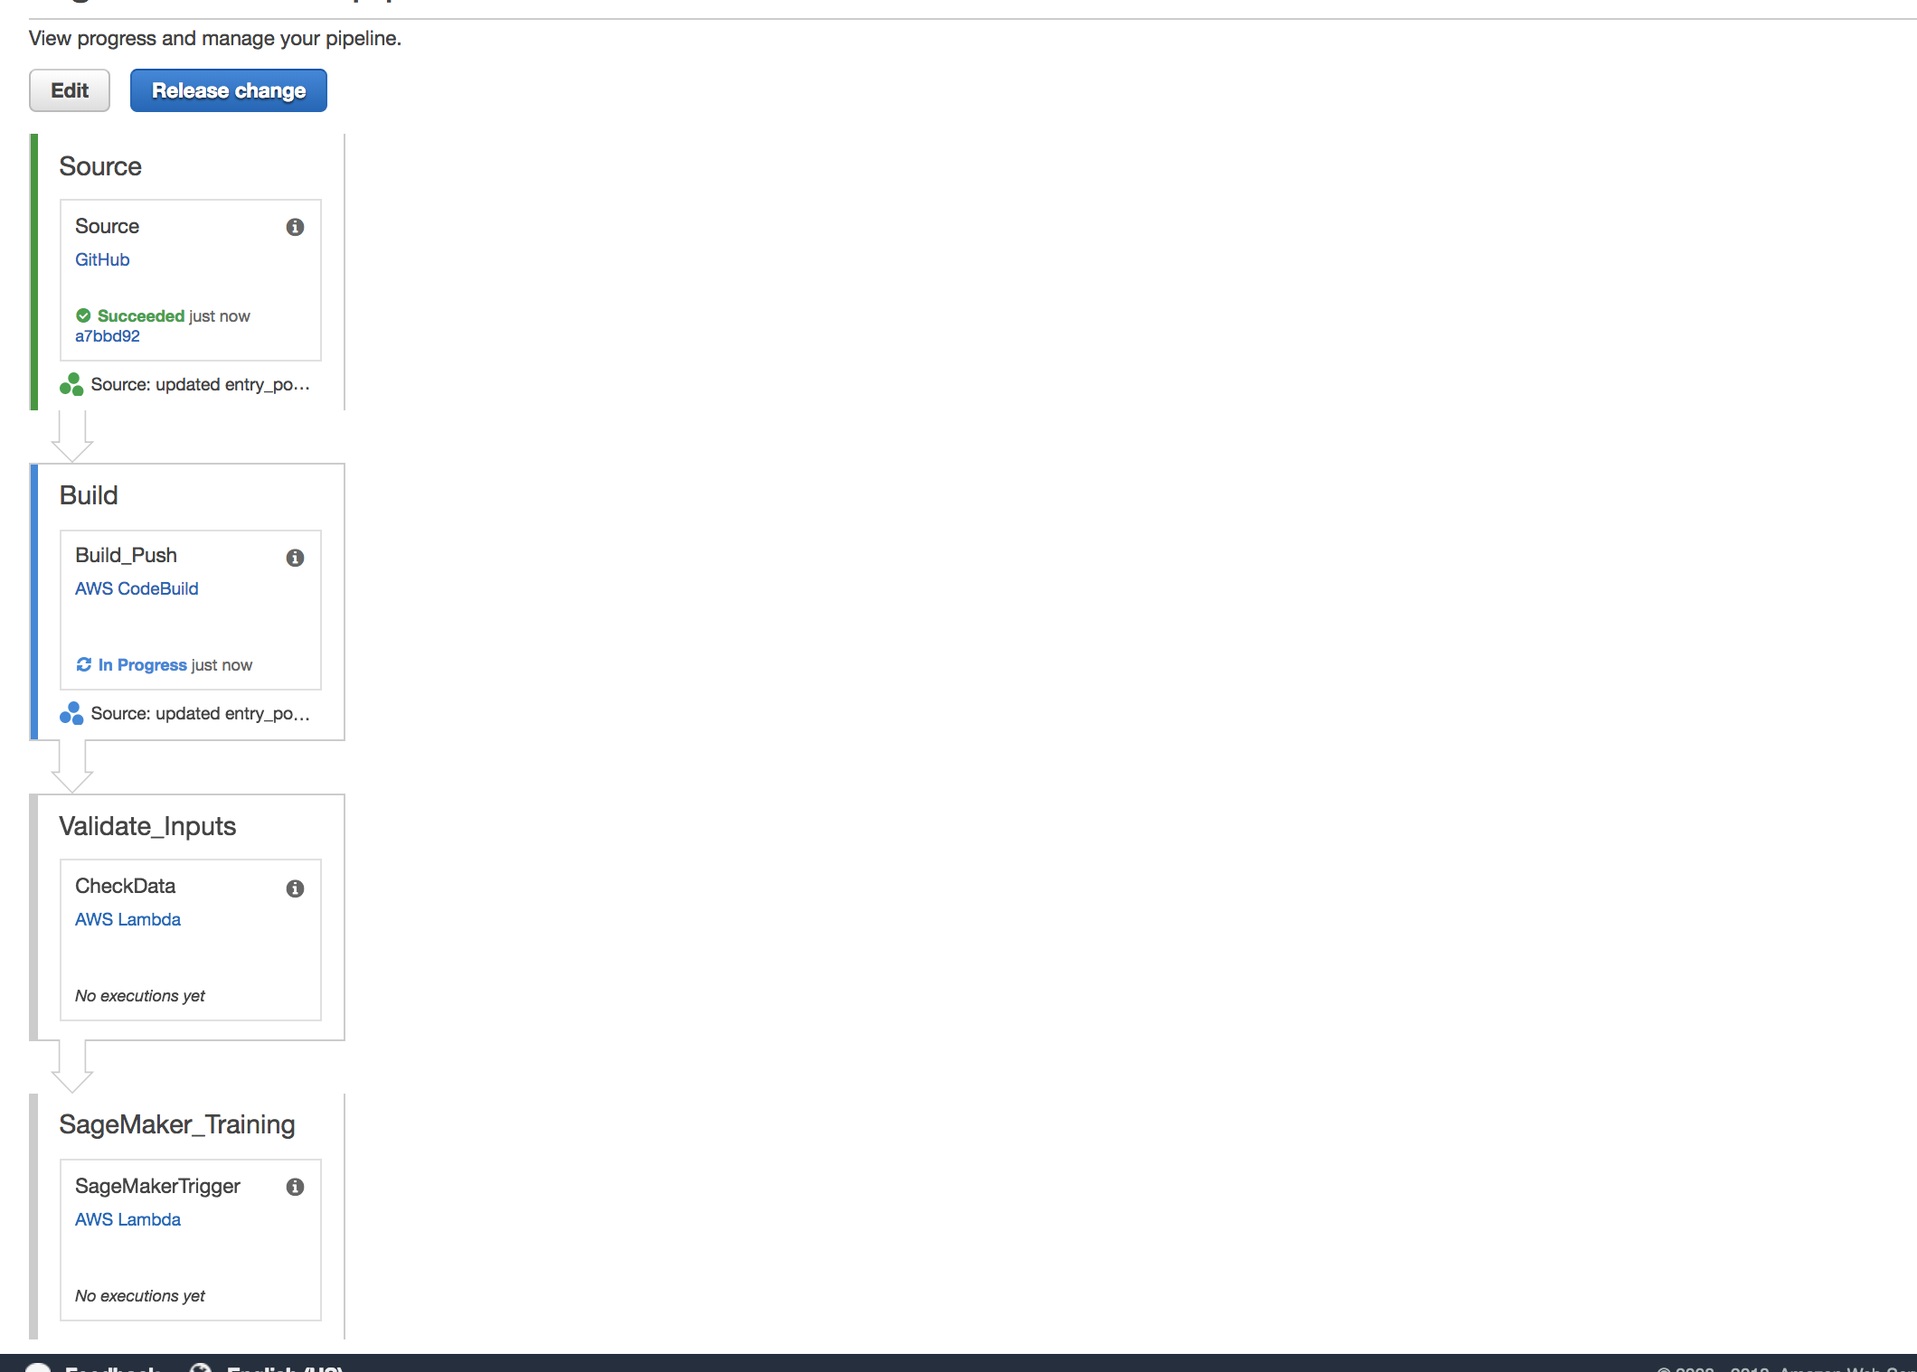
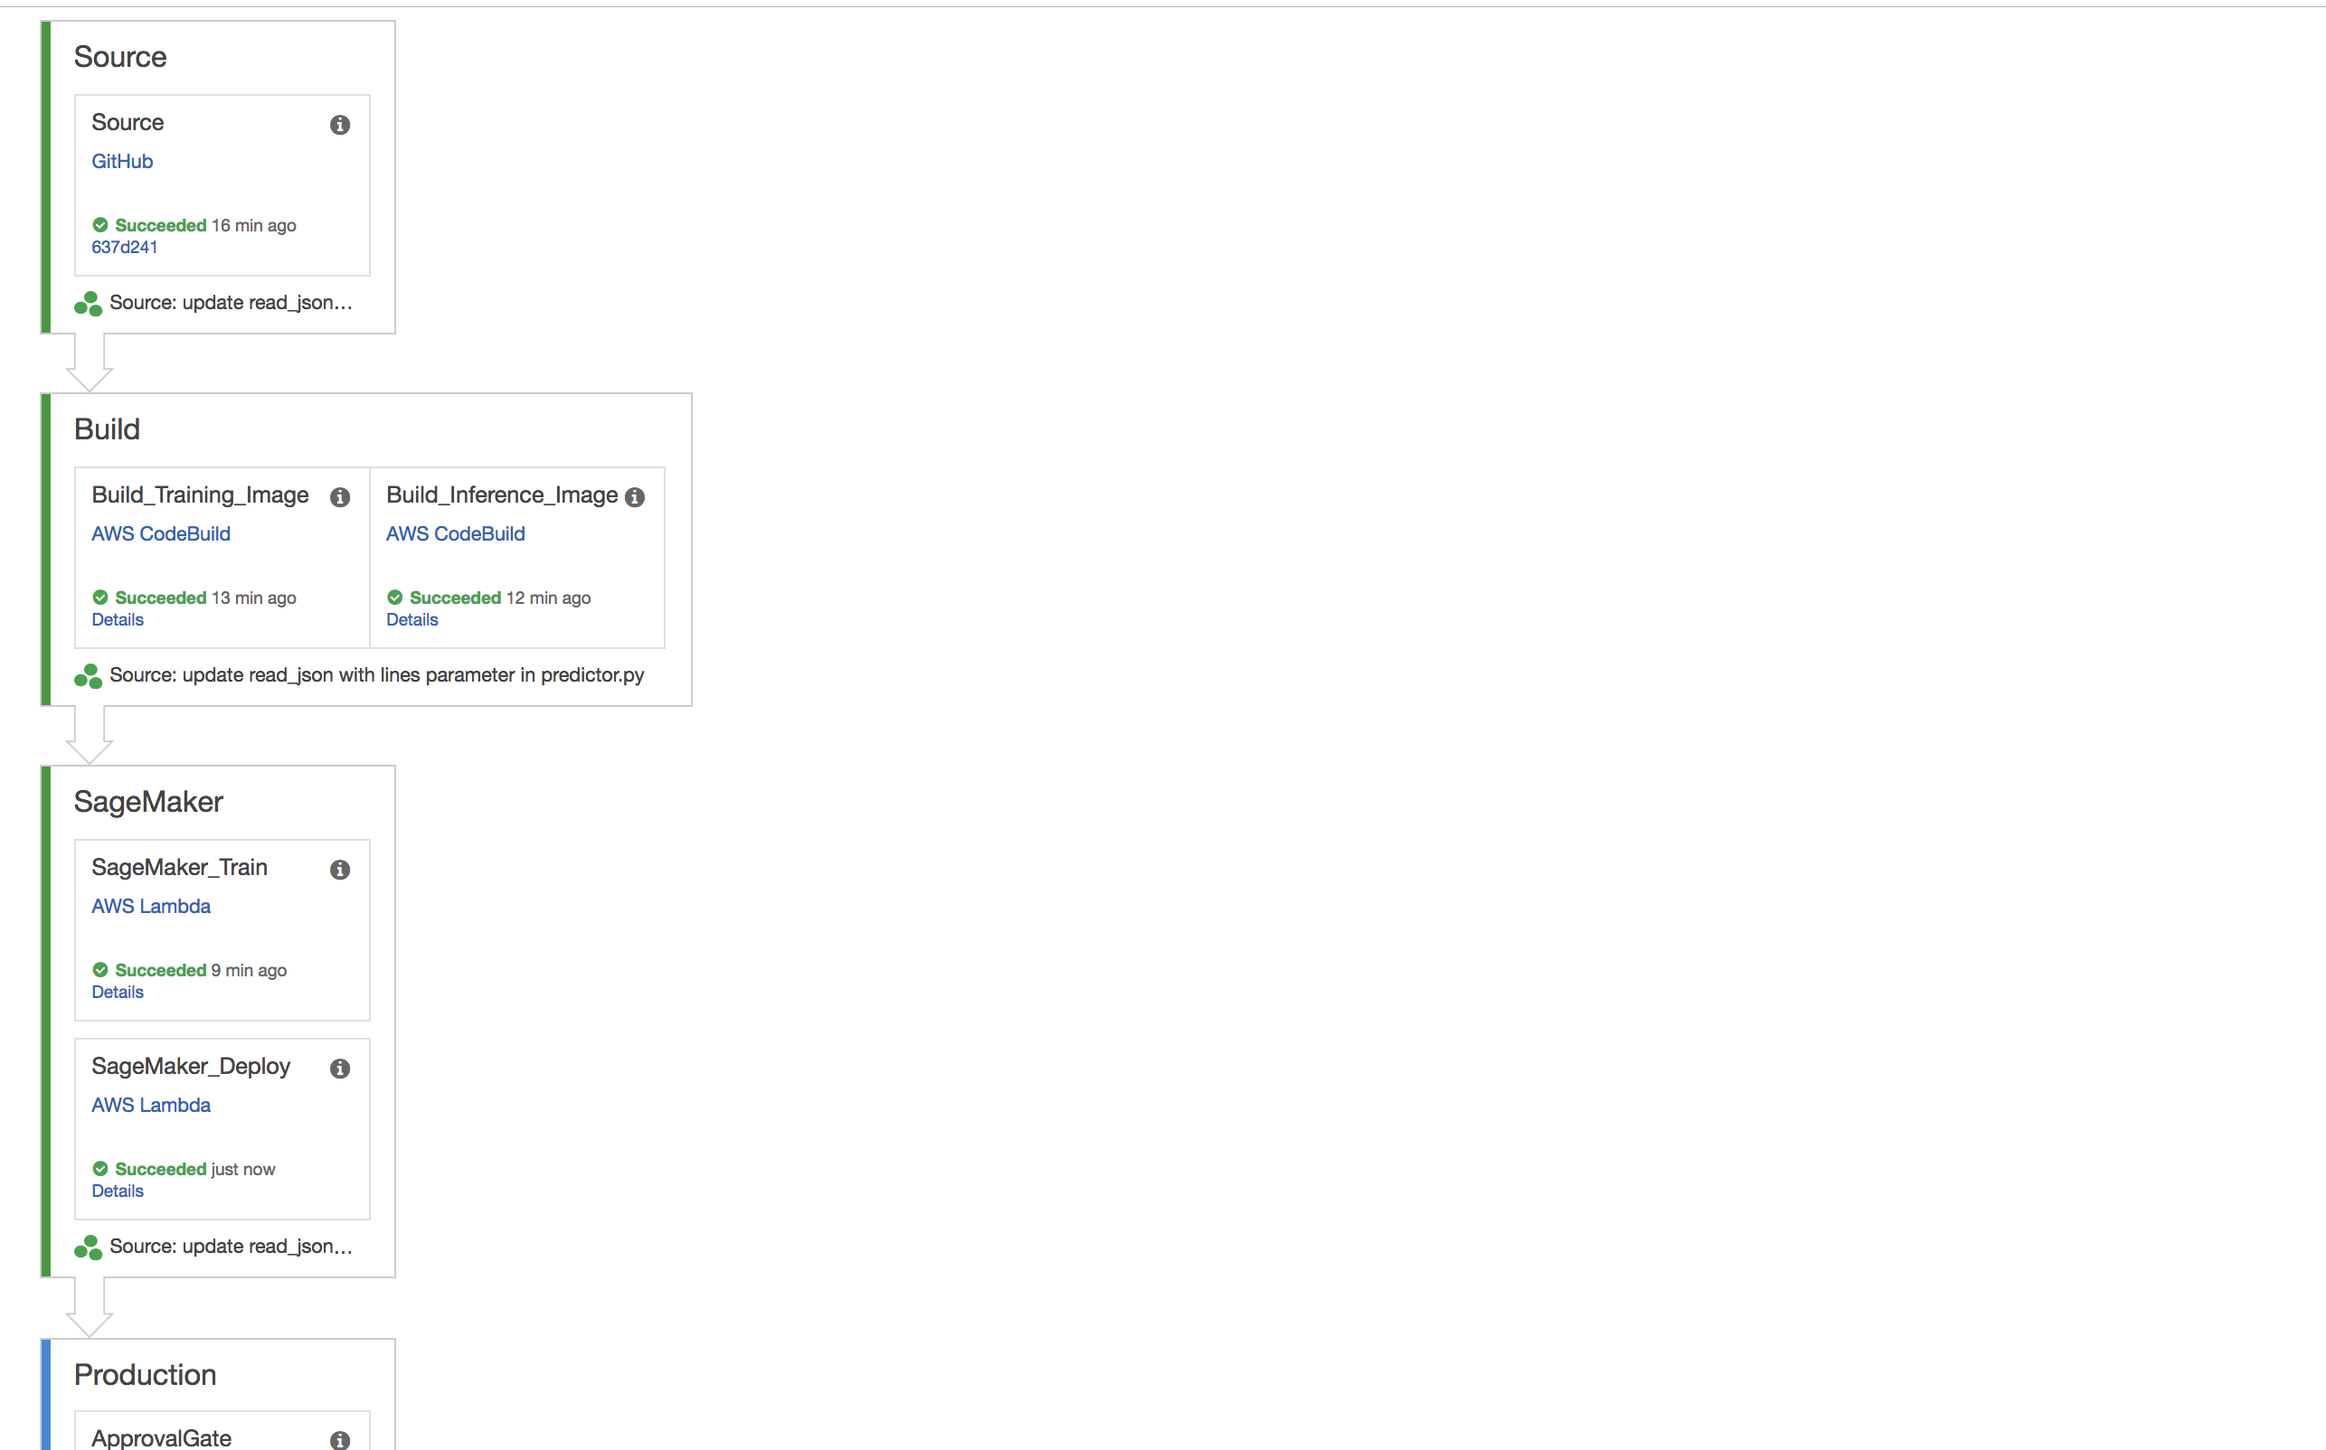
updated documentation and sagemaker deploy action

Changed region(s): [[0.0, 0.0, 1.0, 1.0], [0.1557, 0.1548, 0.1868, 0.1858]]

diff --git a/lambda/sagemaker-deploy-trigger.py b/lambda/sagemaker-deploy-trigger.py
@@ -1,6 +1,7 @@
 import os
 import json
 import datetime
+import tarfile
 import boto3
 import botocore
 import tempfile
@@ -30,7 +31,47 @@ def main(event, context):
         session_token = credentials['sessionToken']
 
         if "continuationToken" in job_data:
-            print("Add Waiting Procedure for Sagemaker deploy")
+            ## collect the value of the continuation token and describe sagemaker endpoint
+            continuation_token = job_data["continuationToken"]
+
+            res = sagemaker.describe_endpoint(EndpointName=str(continuation_token))
+            endpoint_service_status = str(res['EndpointStatus'])
+
+            if endpoint_service_status == "Creating":
+                msg = "Model Hosting Endpoint is being Created"
+                print(msg)
+                codepipeline.put_job_success_result(jobId=job_id, continuationToken=continuation_token)
+
+            if endpoint_service_status == "Updating":
+                msg = "Model Hosting Endpoint is being Updated"
+                print(msg)
+                codepipeline.put_job_success_result(jobId=job_id, continuationToken=continuation_token)
+
+            if endpoint_service_status == "SystemUpdating":
+                msg = "Model Hosting Endpoint System is being Updated"
+                print(msg)
+                codepipeline.put_job_success_result(jobId=job_id, continuationToken=continuation_token)
+
+            if endpoint_service_status == "InService":
+                msg = "Model Hosting Endpoint is now InService"
+                print(msg)
+                codepipeline.put_job_success_result(jobId=job_id)
+
+            if endpoint_service_status == "Failed":
+                msg = "Model Hosting Endpoint Creation Failed"
+                print(msg)
+                codepipeline.put_job_failure_result(jobId=job_id, failureDetails={'message': 'Endpoint Creation Failed',
+                                                                                  'type': 'JobFailed'})
+            if endpoint_service_status == "RollingBack":
+                msg = "Model Hosting Endpoint Encountered Errors"
+                print(msg)
+                codepipeline.put_job_failure_result(jobId=job_id, failureDetails={'message': 'Endpoint Creation Rollback',
+                                                                                  'type': 'JobFailed'})
+            if endpoint_service_status == "OutOfService":
+                msg = "Model Hosting Endpoint Creation Failed"
+                print(msg)
+                codepipeline.put_job_failure_result(jobId=job_id, failureDetails={'message': 'Endpoint Out of Service',
+                                                                                  'type': 'JobFailed'})
         else:
             session = Session(aws_access_key_id=key_id, aws_secret_access_key=key_secret,
                               aws_session_token=session_token)
@@ -40,40 +81,99 @@ def main(event, context):
                 s3.download_file(from_bucket, from_key, tmp.name)
                 with open(tmp.name) as f:
                     contents = f.readline()
-
                 training_job_name = json.loads(contents)['training_job_name']
 
-                res = sagemaker.list_training_jobs()
+            res = sagemaker.list_training_jobs()
+            for job in res['TrainingJobSummaries']:
+                if job['TrainingJobName'] == str(training_job_name):
+                    job_status = str(job['TrainingJobStatus'])
+                    job_creation_time = str(job['CreationTime'])
+                    job_end_time = str(job['TrainingEndTime'])
 
-                for job in res['TrainingJobSummaries']:
-                    if job['TrainingJobName'] == str(training_job_name):
-                        job_status = str(job['TrainingJobStatus'])
-                        print('job_status:' + job_status)
-                        job_creation_time = str(job['CreationTime'])
-                        print('creation_time:' + job_creation_time)
-                        job_end_time = str(job['TrainingEndTime'])
-                        print('job_end_time' + job_end_time)
+                    dynamodb.update_item(
+                        TableName=str(os.environ['META_DATA_STORE']),
+                        Key={'training_job_name': {'S': training_job_name}},
+                        UpdateExpression="SET #job_creation_time= :val1, #job_end_time= :val2, #job_status= :val3",
+                        ExpressionAttributeNames={'#job_creation_time': 'job_creation_time',
+                                                  '#job_end_time': 'job_end_time',
+                                                  '#job_status': 'job_status'
+                                                  },
+                        ExpressionAttributeValues={':val1': {'S': job_creation_time},
+                                                   ':val2': {'S': job_end_time},
+                                                   ':val3': {'S': job_status}
+                                                   }
+                    )
 
-                dynamodb.update_item(
-                    TableName=str(os.environ['META_DATA_STORE']),
-                    Key={'training_job_name': {'S': training_job_name}},
-                    UpdateExpression="SET #job_creation_time= :val1, #job_end_time= :val2, #job_status= :val3",
-                    ExpressionAttributeNames={'#job_creation_time': 'job_creation_time',
-                                              '#job_end_time': 'job_end_time', '#job_status': 'job_status'},
-                    ExpressionAttributeValues={':val1': {'S': job_creation_time}, ':val2': {'S': job_end_time},
-                                               ':val3': {'S': job_status}
-                                               }
-                )
+            s3 = boto3.client('s3')
+            try:
+                s3.download_file(str(os.environ['DEST_BKT']), '{}/output/model.tar.gz'.format(str(training_job_name)), '/tmp/file')
+                if tarfile.is_tarfile('/tmp/file'):
+                    tar = tarfile.open('/tmp/file', "r:gz")
+                    for TarInfo in tar:
+                        tar.extract(TarInfo.name, path='/tmp/extract/')
+            except Exception as e:
+                print(e)
+                raise e
 
-                inference_img_name = str(os.environ['FULL_NAME'])
-                endpoint_name = str(os.environ["IMG"]) + '-' + str(datetime.datetime.today()).replace(' ', '-').replace(':', '-').rsplit('.')[0]
-                model_name = 'model-' + str(endpoint_name)
-                endpoint_config_name = 'endpoint-config-'+ str(endpoint_name)
-                model_obj_key = "{}/output/model.tar.gz".format(training_job_name)
-                model_data_url = 's3://{}/{}'.format(str(os.environ['DEST_BKT']), model_obj_key)
+            training_cost_per_epoch = dict()
+            testing_cost_per_epoch = dict()
+            with open('/tmp/extract/cost.json') as cost_file:
+                cost_json = json.load(cost_file)
+            for key in cost_json.keys():
+                dict_entry_train = {'S': str(cost_json[key]['training_cost'])}
+                training_cost_per_epoch.update({str(key): dict_entry_train})
+                dict_entry_test = {'S': str(cost_json[key]['testing_cost'])}
+                testing_cost_per_epoch.update({str(key): dict_entry_test})
 
+            inference_img_uri = str(os.environ['FULL_NAME'])
+            endpoint_name = str(os.environ["IMG"]) + '-' + str(datetime.datetime.today()).replace(' ', '-').replace(':', '-').rsplit('.')[0]
+            model_name = 'model-' + str(endpoint_name)
+            endpoint_config_name = 'endpoint-config-'+ str(endpoint_name)
+            model_obj_key = "{}/output/model.tar.gz".format(training_job_name)
+            model_data_url = 's3://{}/{}'.format(str(os.environ['DEST_BKT']), model_obj_key)
 
-                codepipeline.put_job_success_result(jobId=job_id)
+            mod_res = sagemaker.create_model(ModelName=model_name, ExecutionRoleArn=str(os.environ['SAGE_ROLE_ARN']),
+                                             PrimaryContainer={
+                                                 'Image': inference_img_uri,
+                                                 'ModelDataUrl': model_data_url
+                                             })
+            print(mod_res)
+            conf_res = sagemaker.create_endpoint_config(EndpointConfigName=endpoint_config_name, ProductionVariants=[{
+                'VariantName': 'initial-variant',
+                'ModelName': model_name,
+                'InitialInstanceCount': 1,
+                'InstanceType': 'ml.t2.medium'
+            }])
+            print(conf_res)
+            endpoint_res = sagemaker.create_endpoint(EndpointName=endpoint_name,
+                                                     EndpointConfigName=endpoint_config_name
+                                                     )
+            print(endpoint_res)
+
+            dynamodb.update_item(
+                TableName=str(os.environ['META_DATA_STORE']),
+                Key={'training_job_name': {'S': training_job_name}},
+                UpdateExpression="SET #training_cost_per_epoch= :val1, #testing_cost_per_epoch= :val2, #inference_image_uri= :val3, #model_name= :val4, #endpoint_config_name= :val5, #endpoint_name= :val6",
+                ExpressionAttributeNames={'#training_cost_per_epoch': 'training_cost_per_epoch',
+                                          '#testing_cost_per_epoch': 'testing_cost_per_epoch',
+                                          '#inference_image_uri': 'inference_image_uri',
+                                          '#model_name': 'model_name',
+                                          '#endpoint_config_name': 'endpoint_config_name',
+                                          '#endpoint_name': 'endpoint_name'
+                                          },
+                ExpressionAttributeValues={':val1': {'M': training_cost_per_epoch},
+                                           ':val2': {'M': testing_cost_per_epoch},
+                                           ':val3': {'S': inference_img_uri},
+                                           ':val4': {'S': model_name},
+                                           ':val5': {'S': endpoint_config_name},
+                                           ':val6': {'S': endpoint_name}
+                                           }
+            )
+            if 'EndpointArn' in endpoint_res.keys():
+                codepipeline.put_job_success_result(jobId=job_id, continuationToken=endpoint_name)
+            else:
+                codepipeline.put_job_failure_result(jobId=job_id, failureDetails={'message': 'Endpoint not Created',
+                                                                                  'type': 'JobFailed'})
     except Exception as e:
         print(e)
         codepipeline.put_job_failure_result(jobId=job_id, failureDetails={'message': str(e), 'type': 'JobFailed'})

diff --git a/lambda/sagemaker-trigger.py b/lambda/sagemaker-trigger.py
@@ -207,7 +207,7 @@ def main(event, context):
                 StoppingCondition={'MaxRuntimeInSeconds': int(os.environ["RUN_TIME_SEC"])}
             )
 
-            if('TrainingJobArn' in sage_res.keys()):
+            if 'TrainingJobArn' in sage_res.keys():
                 codepipeline.put_job_success_result(jobId=job_id, continuationToken=training_job_name)
             else:
                 codepipeline.put_job_failure_result(jobId=job_id, failureDetails={'message': 'Invalid Request',

diff --git a/README.md b/README.md
@@ -1,15 +1,16 @@
-## CICD Pipeline for Training Custom Models with Amazon SageMaker
+## CICD Pipeline for Training and Deploying Machine Learning Models with Amazon SageMaker
 
 ![Design Overview](./images/sagemaker-pipeline.png)
 
 ### Project Summary
 
-The aim of this project is to present a minimum viable machine learning pipeline which continuously builds a docker image of any custom Machine Learning/Deep Learning model in python and invokes a SageMaker job to train it.
+The aim of this project is to present a minimum viable machine learning pipeline for training and hosting a custom Machine Learning/Deep Learning model in python with a REST endpoint exposed for inference.
+This pipeline continuously builds training and inference docker image for your custom model and then invokes a SageMaker job to train it and after training deploys an SageMaker enpoint for inferece.
 The pipeline resources can be provisioned in AWS by creating a CloudFormation stack from the template provided here: [*template/sagemaker-pipeline.yaml*](https://github.com/MustafaWaheed91/sagemaker-pipeline/blob/master/template/sagemaker-pipeline.yaml)
 
 The pipeline is executed whenever
 * A new commit is pushed to the Github repository branch you specify in the CloudFormation template
-* A data or config objects are created or updated in the training input bucket under the S3 key */input* 
+* A data or config objects are created or updated in the training input bucket under the S3 key */input*
 
 **Note**: This pipeline consumes code in the github repository branch that is laid out as a python package with a setup.py file in the root of the repository along with the module folder.
 
@@ -30,10 +31,10 @@ In order to use this pipeline its expected that your model algorithm is packaged
 
 To learn more about packaging python code [see here](https://python-packaging.readthedocs.io/en/latest/). Also **please note** that you would need to get a personal access token for the pipeline to link to your source repo in Github.
 
-[Check this repository](https://github.com/MustafaWaheed91/tf-gamesbiz) to see an example of a compatible packaged python model that can be consumed by this pipeline.
-Feel free to check the repository and the packaged module "gamesbiz" inside. The the training algorithm is in the module *train.py* implemented as a function named "entry_point()".
+Check out [this repository](https://github.com/MustafaWaheed91/tf-gamesbiz) as an example of a packaged python model that can be consumed by this pipeline.
+Feel free to clone [this repository](https://github.com/MustafaWaheed91/tf-gamesbiz) and the packaged module "gamesbiz" inside.
 
-You can also fork [this example repository](https://github.com/MustafaWaheed91/tf-gamesbiz) to test out this pipeline:
+**Note**: The the training algorithm is in the module *train.py* implemented as a function named "entry_point()" and the inference code is in *serve.py* with its entrypoint function also specified in setup.py
 
 As you can see the root level of your Github repo has a *setup.py* file present there along with the package module directory (as is convention).
 In order to use this CICD pipeline with your packaged python code you need to add an "entry_points" argument in your *setup.py* file in the "setup()" function.
@@ -41,7 +42,7 @@ In order to use this CICD pipeline with your packaged python code you need to ad
 This additional "entry_points" argument provides all the information the pipeline needs to build a SageMaker compatible docker image.
 You can see this in the *setup.py* file for the [example repo](https://github.com/MustafaWaheed91/tf-gamesbiz) where the function is named "entry_point()" as well.
 
-Make sure to keep "train" keyword on the LHS of the "=" when specifying the entry point string as seen in the juxtaposition below.
+Make sure to keep "train" and "serve" keywords on the LHS of the "=" when specifying the entry point string as seen in the juxtaposition below.
 
 ```
 setup(
@@ -51,6 +52,9 @@ setup(
     entry_points={
        "gamesbiz.training": [
            "train=gamesbiz.train:entry_point",
+       ],
+       "gamesbiz.hosting": [
+           "serve=gamesbiz.server:start_server",
        ]
     }
 
@@ -65,8 +69,11 @@ setup(
     ....
 
     entry_points={
-        "<ENTER ANY TEXT>" : [
+        "<PACKAGE NAME>.<ENTER ANY TEXT>" : [
             "train = <ENTER MODULE PATH TO FUNCTION TO BE INVOKED>:<ENTER NAME OF FUNCTION>"
+        ]
+        "<PACKAGE NAME>.<ENTER ANY TEXT>" : [
+            "serve = <ENTER MODULE PATH TO FUNCTION TO BE INVOKED>:<ENTER NAME OF FUNCTION>"
         ]
     }
 
